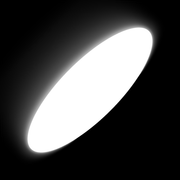
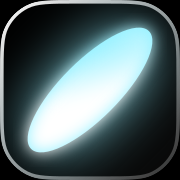
Логотип по брендбуку, шрифты по ТЗ, Эзиз выше
Логотип подкрашен в Base (#92F0FF), без своих эффектов, с охранным
полем 3u; маленький знак и фавикон — без света; логотипы со стены убраны.
Onest — только заголовки, остальной текст — Inter. Эзиз на 6% выше.

diff --git a/src/scene/scene.css b/src/scene/scene.css
@@ -41,7 +41,7 @@
 
 .scene__counter {
   margin: 8px 0 0;
-  font-family: var(--font-display);
+  font-family: var(--font-body);
   font-size: 14px;
   color: var(--muted);
 }
@@ -71,19 +71,6 @@
   background: linear-gradient(90deg, transparent, rgba(167, 139, 250, 0.5), transparent 30%, rgba(167, 139, 250, 0.4) 60%, transparent);
   background-size: 1400px 100%;
   box-shadow: 0 0 18px rgba(167, 139, 250, 0.35);
-}
-
-.wall__logo {
-  position: absolute;
-  top: 26%;
-  width: clamp(180px, 20vw, 300px);
-  opacity: 0.12;
-  filter: saturate(0.6);
-}
-
-.wall__logo img {
-  width: 100%;
-  height: auto;
 }
 
 /* ---------- средний план (0.6) ---------- */
@@ -224,7 +211,7 @@
   position: absolute;
   top: 14px;
   left: 18px;
-  font-family: var(--font-display);
+  font-family: var(--font-body);
   font-size: 11px;
   font-weight: 600;
   letter-spacing: 0.3em;
@@ -262,9 +249,9 @@
   position: absolute;
   inset: 4px 0 0;
   display: grid;
-  /* логотип в углу: по центру его закрывал бы стоящий перед стойкой человек */
+  /* знак в углу; отступ от краёв — охранное поле по брендбуку (3u = 0.6 высоты знака) */
   place-items: end end;
-  padding: 0 14px 12px 0;
+  padding: 0 calc(var(--charH) * 0.054) calc(var(--charH) * 0.054) 0;
   border-radius: 0 0 10px 10px;
   border: 1px solid color-mix(in srgb, var(--c) 30%, transparent);
   border-top: none;
@@ -364,7 +351,6 @@
   rotate: -18deg;
 }
 
-
 /* ---------- карточка ---------- */
 
 .walk-card {
@@ -395,7 +381,7 @@
 
 .walk-card__tier {
   margin: 0 0 8px;
-  font-family: var(--font-display);
+  font-family: var(--font-body);
   font-size: 10.5px;
   font-weight: 600;
   letter-spacing: 0.28em;
@@ -422,7 +408,6 @@
   justify-content: space-between;
   gap: 10px;
 }
-
 
 /* На узких экранах карточка уходит под стойку. */
 @media (max-width: 1100px) {

diff --git a/src/components/TeamScene.tsx b/src/components/TeamScene.tsx
@@ -53,7 +53,7 @@ function Stand({ member, index, layout, part }: { member: Member; index: number;
     <div className={`counter counter--${member.tier}`} style={style}>
       <div className="counter__top" />
       <div className="counter__front">
-        <img src={asset('brand/mark.svg')} alt="" draggable={false} />
+        <img src={asset('brand/mark-small.svg')} alt="" draggable={false} />
       </div>
     </div>
   )
@@ -62,7 +62,8 @@ function Stand({ member, index, layout, part }: { member: Member; index: number;
 // Исходное фото сотрудника у его стойки: подошвы на линии пола, центр стоп — по центру стойки.
 function Person({ member, index, layout }: { member: Member; index: number; layout: Layout }) {
   const a = avatarOf(member)
-  const k = layout.charH / a.h
+  const h = layout.charH * (member.height ?? 1)
+  const k = h / a.h
   return (
     <img
       className="person"
@@ -74,9 +75,9 @@ function Person({ member, index, layout }: { member: Member; index: number; layo
       draggable={false}
       style={{
         left: standX(index, layout.vw) - a.feetX * k,
-        top: layout.floor - layout.charH,
+        top: layout.floor - h,
         width: a.w * k,
-        height: layout.charH,
+        height: h,
         transformOrigin: `${a.feetX * k}px 100%`,
         opacity: 0,
       }}
@@ -237,7 +238,7 @@ export function TeamScene() {
         {layout && (
           <>
             <div className="walk__layer" ref={layers.wall}>
-              <WallLayer length={worldLen * SPEED.wall + layout.vw} logoStep={Math.max(420, layout.vw * 0.55)} />
+              <WallLayer length={worldLen * SPEED.wall + layout.vw} />
             </div>
             <div className="walk__layer" ref={layers.mid}>
               <MidLayer length={worldLen * SPEED.mid + layout.vw} step={Math.max(220, layout.vw * 0.34)} />

diff --git a/src/data.ts b/src/data.ts
@@ -10,12 +10,13 @@ export type Member = {
   tier: Tier
   telegram: string
   avatar: string
+  height?: number // рост относительно остальных (1 — как у всех)
 }
 
 // Порядок важен: это иерархия отдела, сцена и сетка идут строго по нему.
 export const team: Member[] = [
   { id: 'iskander', firstName: 'Искандер', lastName: 'Чарыев', role: 'Head of Technical Support', tier: 'head', telegram: 'https://t.me/XandR_tsPD', avatar: asset('avatars/iskander.webp') },
-  { id: 'eziz', firstName: 'Эзиз', lastName: 'Дурдыев', role: 'Technical Support Lead', tier: 'lead', telegram: 'https://t.me/han_tm', avatar: asset('avatars/eziz.webp') },
+  { id: 'eziz', firstName: 'Эзиз', lastName: 'Дурдыев', role: 'Technical Support Lead', tier: 'lead', telegram: 'https://t.me/han_tm', avatar: asset('avatars/eziz.webp'), height: 1.06 },
   { id: 'ovez', firstName: 'Овез', lastName: 'Аннаклычев', role: 'Technical Support Middle', tier: 'middle', telegram: 'https://t.me/i_am_ObeOne', avatar: asset('avatars/ovez.webp') },
   { id: 'muhammed', firstName: 'Мухаммед', lastName: 'Полатов', role: 'Technical Support Middle', tier: 'middle', telegram: 'https://t.me/impolo98', avatar: asset('avatars/muhammed.webp') },
   { id: 'bayram', firstName: 'Байрам', lastName: 'Реджепов', role: 'Technical Support Junior', tier: 'junior', telegram: 'https://t.me/bvyram', avatar: asset('avatars/bayram.webp') },

diff --git a/src/index.css b/src/index.css
@@ -200,8 +200,10 @@ a {
 
 .hero__logo {
   position: relative;
-  width: clamp(220px, min(30vw, 48svh), 420px);
-  margin-bottom: clamp(20px, 4svh, 40px);
+  --logo-w: clamp(220px, min(30vw, 48svh), 420px);
+  width: var(--logo-w);
+  /* охранное поле по брендбуку: 3u = 0.6 высоты знака ≈ 0.122 ширины логотипа */
+  margin-bottom: calc(var(--logo-w) * 0.13);
 }
 
 .hero__logo img,
@@ -209,22 +211,6 @@ a {
   position: relative;
   width: 100%;
   height: auto;
-  filter: drop-shadow(0 0 24px rgba(124, 58, 237, 0.45));
-}
-
-.hero__logo-glow {
-  position: absolute;
-  inset: -160% -12%;
-  background: radial-gradient(closest-side, rgba(167, 139, 250, 0.3), transparent 70%);
-  filter: blur(10px);
-  animation: breathe 4s ease-in-out infinite;
-}
-
-@keyframes breathe {
-  50% {
-    opacity: 0.45;
-    scale: 0.9;
-  }
 }
 
 .hero__title {
@@ -583,7 +569,7 @@ a {
 
 .credit {
   margin-top: 4px;
-  font-family: var(--font-display);
+  font-family: var(--font-body);
   font-size: 15px;
   font-weight: 600;
   letter-spacing: 0.18em;
@@ -602,8 +588,9 @@ a {
 
 .finale__logo {
   position: relative;
-  width: clamp(200px, 24vw, 300px);
-  margin-bottom: 6px;
+  --logo-w: clamp(200px, 24vw, 300px);
+  width: var(--logo-w);
+  margin: calc(var(--logo-w) * 0.13) 0 calc(var(--logo-w) * 0.13 - 18px);
 }
 
 /* ---------- MOBILE ---------- */

diff --git a/src/components/Finale.tsx b/src/components/Finale.tsx
@@ -18,7 +18,13 @@ function Member({ member }: { member: Member }) {
   return (
     <motion.li className={`lineup__item lineup__item--${member.tier}`} variants={item}>
       <div className="lineup__figure">
-        <img src={member.avatar} alt={`${member.firstName} ${member.lastName}`} loading="lazy" draggable={false} />
+        <img
+          src={member.avatar}
+          alt={`${member.firstName} ${member.lastName}`}
+          loading="lazy"
+          draggable={false}
+          style={member.height ? { height: `calc(var(--h) * ${member.height})` } : undefined}
+        />
       </div>
       <div className="lineup__info">
         <h3 className="lineup__name">
@@ -83,7 +89,6 @@ export function Finale() {
         transition={{ duration: 1.1, ease }}
       >
         <div className="finale__logo">
-          <span className="hero__logo-glow" aria-hidden="true" />
           <Logo />
         </div>
         <p>Мы всегда на связи</p>

diff --git a/src/scene/Decor.tsx b/src/scene/Decor.tsx
@@ -1,17 +1,9 @@
-import { asset } from '../asset'
-
 // Декор параллакс-слоёв. Координаты X — в системе своего слоя (мировая X × скорость слоя).
 
-export function WallLayer({ length, logoStep }: { length: number; logoStep: number }) {
-  const logos = Math.ceil(length / logoStep) + 1
+export function WallLayer({ length }: { length: number }) {
   return (
     <div className="wall" style={{ width: length }}>
       <div className="wall__strip" />
-      {Array.from({ length: logos }, (_, i) => (
-        <div className="wall__logo" key={i} style={{ left: i * logoStep }}>
-          <img src={asset('brand/logo.svg')} alt="" draggable={false} />
-        </div>
-      ))}
     </div>
   )
 }

diff --git a/index.html b/index.html
@@ -20,7 +20,7 @@
     <link rel="preconnect" href="https://fonts.googleapis.com" />
     <link rel="preconnect" href="https://fonts.gstatic.com" crossorigin />
     <link
-      href="https://fonts.googleapis.com/css2?family=Inter:wght@400;500;600;700&family=Onest:wght@500;600;700;800&display=swap"
+      href="https://fonts.googleapis.com/css2?family=Inter:wght@400;500;600;700&family=Onest:wght@500;600;700&display=swap"
       rel="stylesheet"
     />
   </head>

diff --git a/src/components/Hero.tsx b/src/components/Hero.tsx
@@ -72,7 +72,6 @@ export function Hero() {
           animate={{ opacity: 1, scale: 1, filter: 'blur(0px)' }}
           transition={{ duration: 1.4, ease }}
         >
-          <span className="hero__logo-glow" aria-hidden="true" />
           <Logo />
         </motion.div>
 
